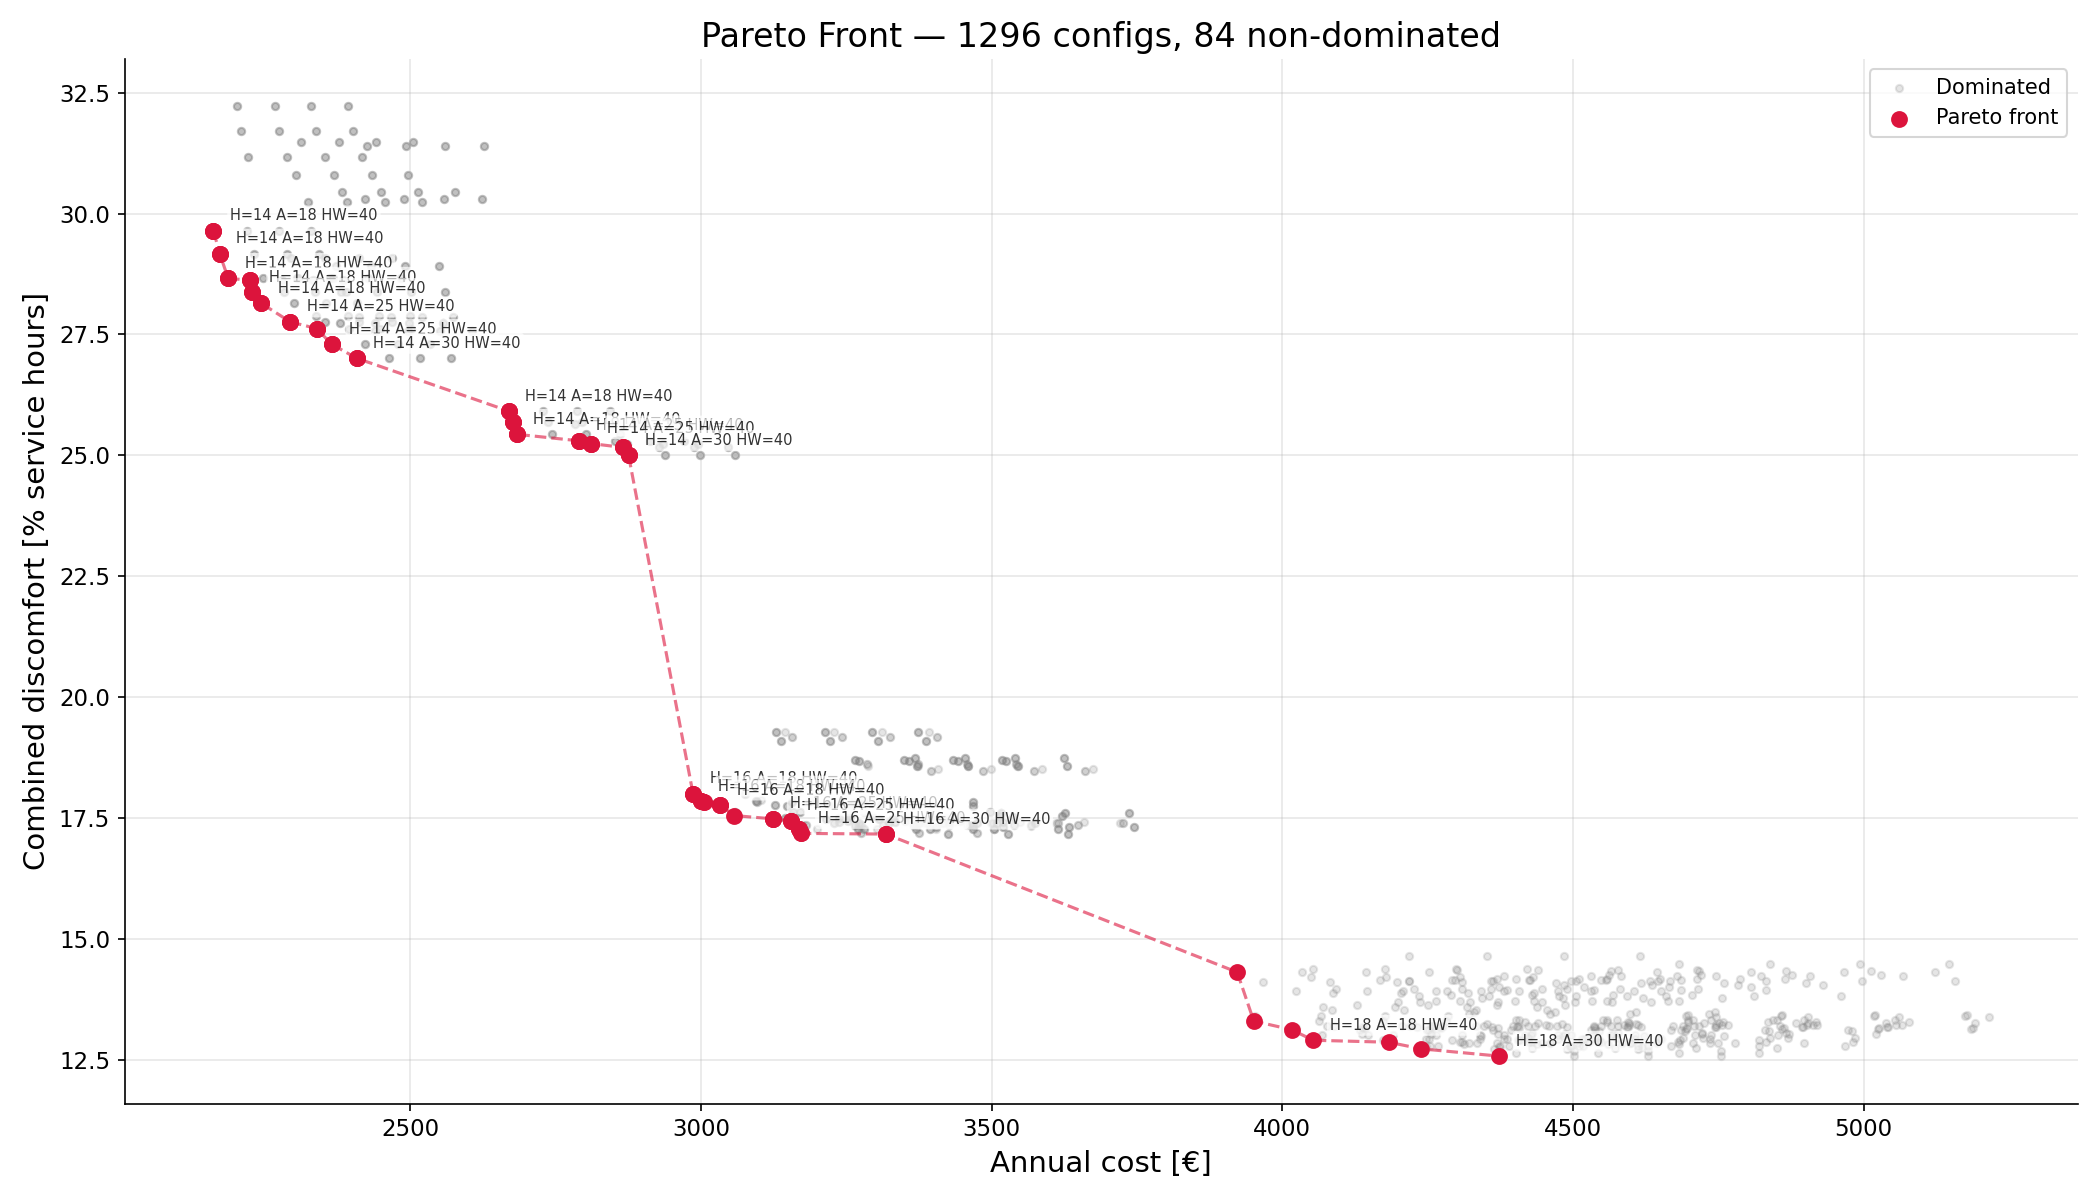
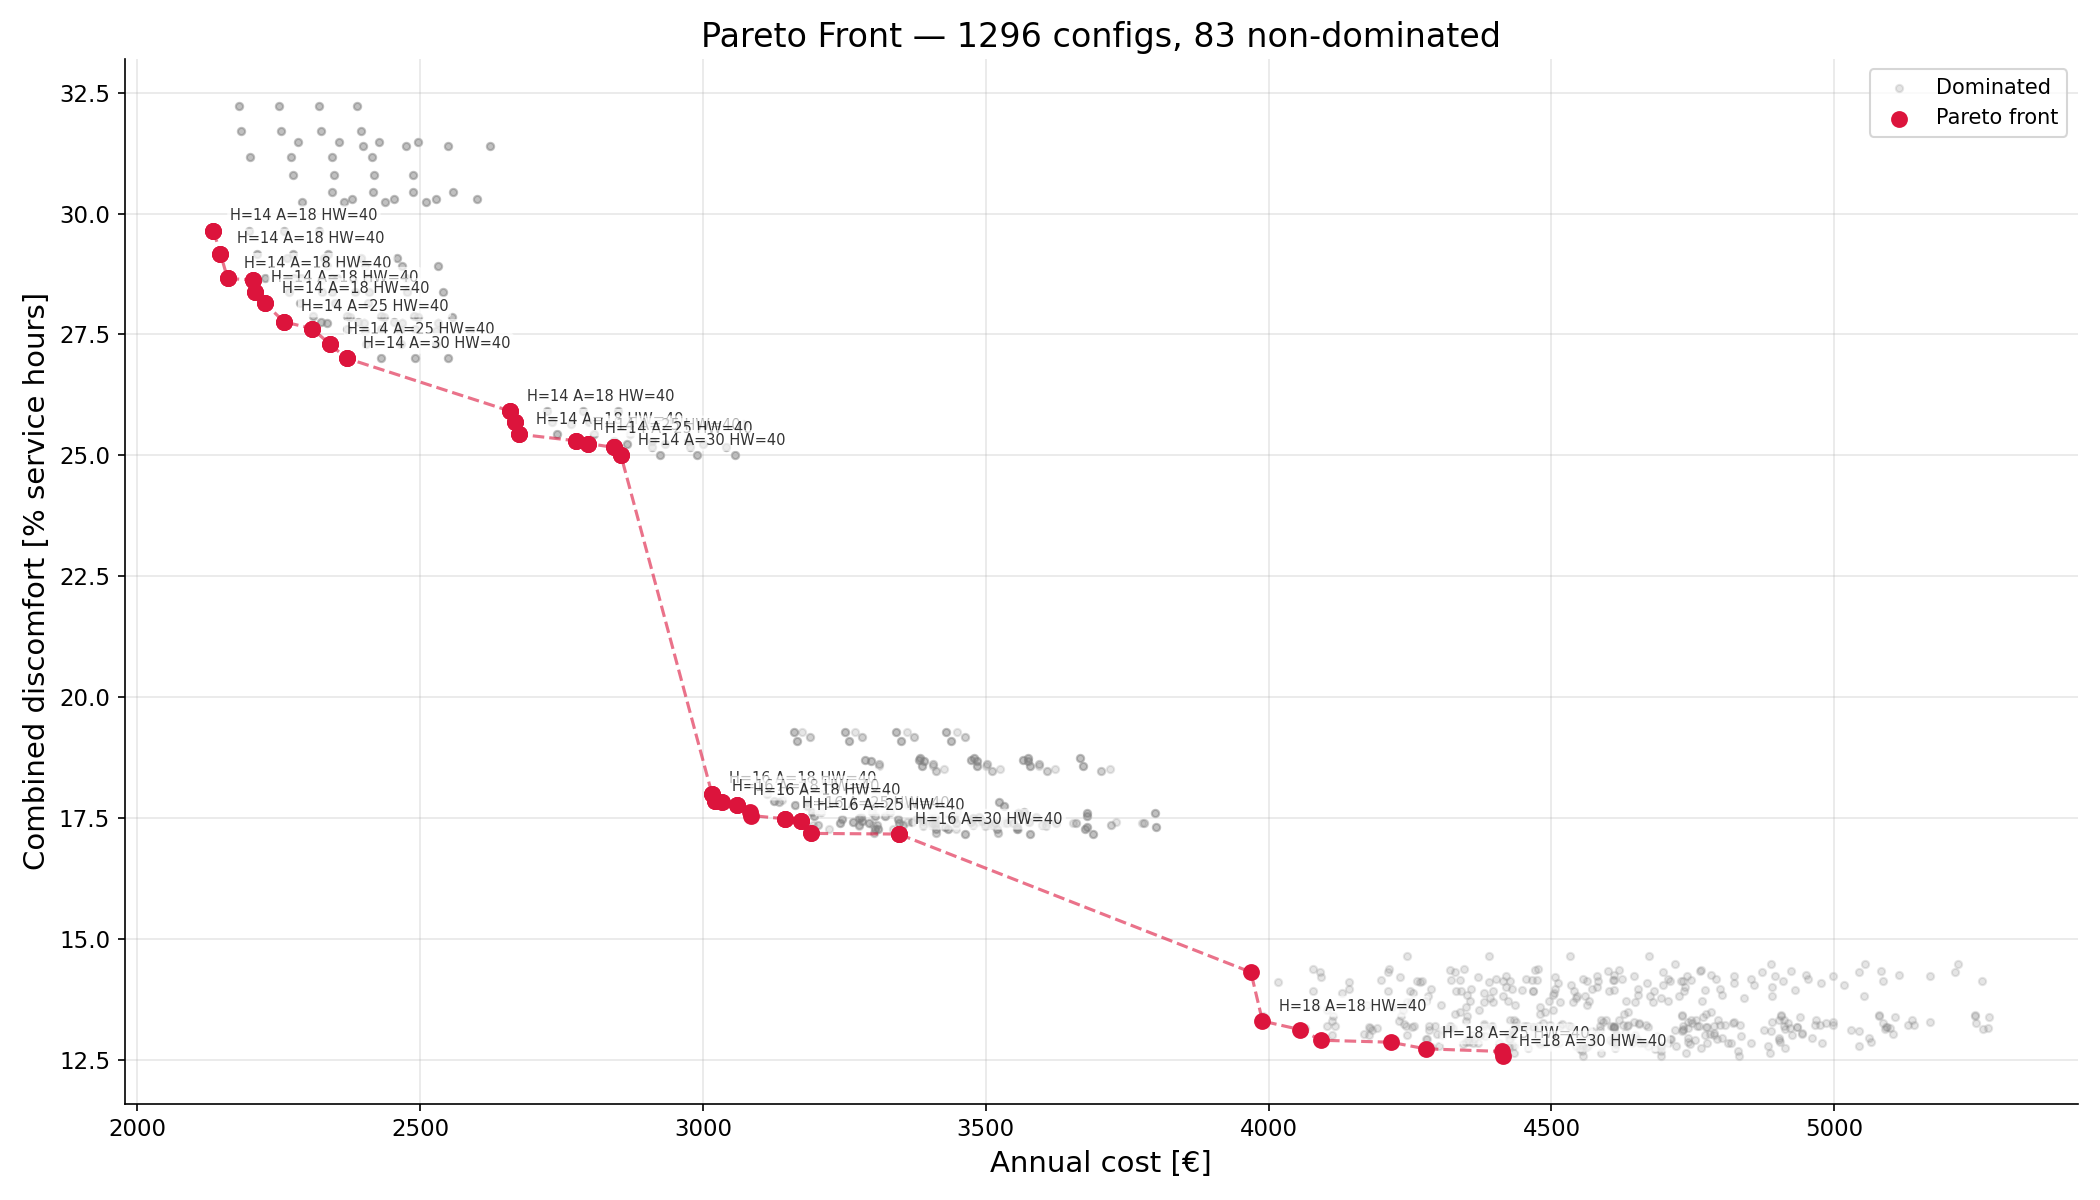
Add Streamlit app: live sim, Sobol, Pareto explorer

diff --git a/app.py b/app.py
@@ -1,0 +1,293 @@
+import streamlit as st
+import pandas as pd
+import plotly.express as px
+import plotly.graph_objects as go
+
+
+# =============================================================================
+# APP CONFIG — shared across all pages
+# =============================================================================
+
+st.set_page_config(page_title="Metro HVAC Optimizer", layout="wide")
+st.title("Metro HVAC Optimizer")
+
+page = st.sidebar.radio(
+    "Page",
+    ["Live Simulation", "Sobol Sensitivity", "Pareto Explorer"],
+)
+
+
+# =============================================================================
+# PAGE 1 — LIVE SIMULATION
+# Runs a full-year simulation with user-chosen parameters.
+# =============================================================================
+
+if page == "Live Simulation":
+
+    st.caption("Runs a full-year simulation with your chosen parameters.")
+
+    import constants
+    import regulation
+    import emissions as em_mod
+    import humidity as hum_mod
+    from simulation import run_simulation
+
+    # --- Monkey-patch helpers (same pattern as pareto.py) ---
+    def _patch(name, value):
+        setattr(constants, name, value)
+        for mod in (regulation, em_mod, hum_mod):
+            if hasattr(mod, name):
+                setattr(mod, name, value)
+
+    def _patch_derived():
+        ov = constants.AIRFLOW_OVERPRESSURE_M3H
+        pp = constants.AIRFLOW_PER_PERSON_M3H
+        pk = constants.PEOPLE_PEAK
+        _patch("AIRFLOW_MIN_M3H", ov)
+        _patch("AIRFLOW_MAX_M3H", (ov + pk * pp) * 1.10)
+        _patch("P_FAN_RATED_W",
+               constants.AIRFLOW_MAX_M3H / 3600.0 * constants.DP_AHU_PA / constants.ETA_FAN)
+        _patch("T_HEAT_HIGH_C", constants.T_HEAT_LOW_C + 2.0)
+
+    # --- Sidebar sliders ---
+    st.sidebar.header("Parameters")
+    h    = st.sidebar.select_slider("Heating setpoint (°C)",     options=[14.0, 16.0, 18.0],       value=16.0)
+    a    = st.sidebar.select_slider("Airflow per person (m³/h)", options=[18.0, 25.0, 30.0],       value=18.0)
+    hw   = st.sidebar.select_slider("Hot water max (°C)",        options=[40.0, 45.0, 50.0, 55.0], value=40.0)
+    s    = st.sidebar.select_slider("Stair cold threshold (°C)", options=[3.0, 5.0, 7.0, 10.0],    value=7.0)
+    blow = st.sidebar.select_slider("Blow heat (°C)",            options=[28.0, 30.0, 32.0],       value=28.0)
+
+    # --- Run on button press ---
+    if st.button("Run simulation"):
+        _patch("T_HEAT_LOW_C",           h)
+        _patch("AIRFLOW_PER_PERSON_M3H", a)
+        _patch("T_HW_SUPPLY_MAX",        hw)
+        _patch("T_STAIR_COLD_C",         s)
+        _patch("T_BLOW_HEAT_C",          blow)
+        _patch_derived()
+
+        with st.spinner("Running full-year simulation..."):
+            r = run_simulation()
+
+        em = r["em"]
+        c  = r["comfort"]
+
+        # --- Metric cards ---
+        col1, col2, col3, col4 = st.columns(4)
+        col1.metric("Annual Cost", f"{em['cost_annual_eur']:.0f} €")
+        col2.metric("Energy",      f"{em['E_annual_kWh']:.0f} kWh")
+        col3.metric("CO₂",         f"{em['CO2_annual_kgCO2']:.0f} kg")
+        col4.metric("Discomfort",  f"{c['combined_discomfort_pct']:.1f} %")
+
+        # --- Energy breakdown bar ---
+        fig = go.Figure([go.Bar(
+            x=["Heating", "Cooling", "Fans", "Curtain"],
+            y=[em["E_heat_total_kWh"], em["E_cool_total_kWh"],
+               em["E_fan_total_kWh"],  em["E_curtain_total_kWh"]],
+            marker_color=["tomato", "steelblue", "mediumseagreen", "orange"],
+        )])
+        fig.update_layout(yaxis_title="Energy (kWh)", showlegend=False)
+        st.plotly_chart(fig, width="stretch")
+
+
+# =============================================================================
+# PAGE 2 — SOBOL SENSITIVITY
+# Variance-based ranking of 15 parameters across 3 metrics.
+# =============================================================================
+
+elif page == "Sobol Sensitivity":
+
+    st.subheader("Sobol Sensitivity Analysis")
+
+    @st.cache_data
+    def load_sobol():
+        import numpy as np
+        from SALib.analyze import sobol
+
+        data = np.load("data/processed/sobol_results.npz", allow_pickle=True)
+
+        PROBLEM = {
+            "num_vars": 15,
+            "names": [
+                "T_HEAT_LOW_C", "T_COOL_FIXED_C", "T_HW_SUPPLY_MAX",
+                "AIRFLOW_PER_PERSON_M3H", "T_DEAD_LOW_C", "T_DEAD_HIGH_C",
+                "T_BLOW_HEAT_C", "T_BLOW_COOL_C", "FRAC_RETURN_AIR",
+                "T_NIGHT_SETBACK_C", "T_STAIR_COLD_C", "T_HW_EXT_HIGH_C",
+                "T_HW_EXT_HYST_C", "T_CW_EXT_LOW_C", "T_CW_EXT_HYST_C",
+            ],
+            "bounds": [
+                [16, 22], [24, 28], [40, 55], [15, 35], [12, 18], [20, 25],
+                [28, 35], [13, 17], [0.50, 0.85], [3, 8], [3, 10], [13, 18],
+                [10, 15], [24, 28], [25, 29],
+            ],
+        }
+
+        Si_cost    = sobol.analyze(PROBLEM, data["Y_cost"],    calc_second_order=True)
+        Si_comfort = sobol.analyze(PROBLEM, data["Y_comfort"], calc_second_order=True)
+        Si_co2     = sobol.analyze(PROBLEM, data["Y_co2"],     calc_second_order=True)
+
+        return PROBLEM["names"], Si_cost, Si_comfort, Si_co2
+
+    names, Si_cost, Si_comfort, Si_co2 = load_sobol()
+
+    metric = st.selectbox(
+        "Metric",
+        ["Annual Cost (€)", "Combined Discomfort (%)", "CO₂ (kg)"],
+    )
+
+    Si = {
+        "Annual Cost (€)":         Si_cost,
+        "Combined Discomfort (%)": Si_comfort,
+        "CO₂ (kg)":                Si_co2,
+    }[metric]
+
+    fig = go.Figure([
+        go.Bar(name="S1 (direct effect)", x=names, y=Si["S1"], marker_color="steelblue"),
+        go.Bar(name="ST (total effect)",  x=names, y=Si["ST"], marker_color="tomato"),
+    ])
+    fig.update_layout(
+        barmode="group",
+        yaxis_title="Sobol Index",
+        xaxis_tickangle=-45,
+        yaxis=dict(range=[0, 1]),
+    )
+    st.plotly_chart(fig, width="stretch")
+
+
+# =============================================================================
+# PAGE 3 — PARETO EXPLORER
+# Browse precomputed grid: compare a selected config against the optimal one.
+# =============================================================================
+
+elif page == "Pareto Explorer":
+
+    st.subheader("Pareto Explorer")
+
+    # --- Load precomputed grid (cached) ---
+    @st.cache_data
+    def load_pareto():
+        return pd.read_csv("data/processed/pareto_all_configs.csv")
+
+    df = load_pareto()
+
+    # --- Optimal config (fixed reference) ---
+    OPTIMAL = {
+        "T_HEAT_LOW_C":           16,
+        "AIRFLOW_PER_PERSON_M3H": 18,
+        "T_HW_SUPPLY_MAX":        40,
+        "T_STAIR_COLD_C":         7,
+        "T_BLOW_HEAT_C":          28,
+    }
+
+    optimal_row = df[
+        (df["T_HEAT_LOW_C"]           == OPTIMAL["T_HEAT_LOW_C"]) &
+        (df["AIRFLOW_PER_PERSON_M3H"] == OPTIMAL["AIRFLOW_PER_PERSON_M3H"]) &
+        (df["T_HW_SUPPLY_MAX"]        == OPTIMAL["T_HW_SUPPLY_MAX"]) &
+        (df["T_STAIR_COLD_C"]         == OPTIMAL["T_STAIR_COLD_C"]) &
+        (df["T_BLOW_HEAT_C"]          == OPTIMAL["T_BLOW_HEAT_C"])
+    ]
+
+    # --- Sidebar sliders (snap to grid values via select_slider) ---
+    st.sidebar.header("Configuration")
+    h = st.sidebar.select_slider(
+        "Heating setpoint (°C)",
+        options=sorted(df["T_HEAT_LOW_C"].unique()),
+        value=OPTIMAL["T_HEAT_LOW_C"],
+    )
+    a = st.sidebar.select_slider(
+        "Airflow per person (m³/h)",
+        options=sorted(df["AIRFLOW_PER_PERSON_M3H"].unique()),
+        value=OPTIMAL["AIRFLOW_PER_PERSON_M3H"],
+    )
+    hw = st.sidebar.select_slider(
+        "Hot water supply max (°C)",
+        options=sorted(df["T_HW_SUPPLY_MAX"].unique()),
+        value=OPTIMAL["T_HW_SUPPLY_MAX"],
+    )
+    s = st.sidebar.select_slider(
+        "Staircase cold threshold (°C)",
+        options=sorted(df["T_STAIR_COLD_C"].unique()),
+        value=OPTIMAL["T_STAIR_COLD_C"],
+    )
+    blow = st.sidebar.select_slider(
+        "Blow heat setpoint (°C)",
+        options=sorted(df["T_BLOW_HEAT_C"].unique()),
+        value=OPTIMAL["T_BLOW_HEAT_C"],
+    )
+
+    # --- Look up the row matching the slider values ---
+    filtered = df[
+        (df["T_HEAT_LOW_C"]           == h) &
+        (df["AIRFLOW_PER_PERSON_M3H"] == a) &
+        (df["T_HW_SUPPLY_MAX"]        == hw) &
+        (df["T_STAIR_COLD_C"]         == s) &
+        (df["T_BLOW_HEAT_C"]          == blow)
+    ]
+
+    # --- Display ---
+    if filtered.empty:
+        st.warning("No matching configuration found.")
+    else:
+        sel = filtered.iloc[0]      # selected config
+        opt = optimal_row.iloc[0]   # optimal config
+
+        # --- Top row: Pareto scatter + CO₂ comparison ---
+        col1, col2 = st.columns(2)
+
+        with col1:
+            st.subheader("Pareto Front")
+
+            # Full cloud of all configs in grey
+            fig = px.scatter(
+                df,
+                x="cost_eur",
+                y="combined_discomfort_pct",
+                color_discrete_sequence=["lightgrey"],
+                labels={
+                    "cost_eur": "Annual Cost (€)",
+                    "combined_discomfort_pct": "Discomfort (%)",
+                },
+            )
+            fig.update_traces(marker=dict(size=4), showlegend=False)
+
+            # Optimal — green star
+            fig.add_trace(go.Scatter(
+                x=[opt["cost_eur"]],
+                y=[opt["combined_discomfort_pct"]],
+                mode="markers",
+                marker=dict(color="green", size=12, symbol="star"),
+                name="Optimal",
+            ))
+
+            # Selected — red dot
+            fig.add_trace(go.Scatter(
+                x=[sel["cost_eur"]],
+                y=[sel["combined_discomfort_pct"]],
+                mode="markers",
+                marker=dict(color="red", size=12, symbol="circle"),
+                name="Selected",
+            ))
+
+            st.plotly_chart(fig, width="stretch")
+
+        with col2:
+            st.subheader("CO₂ Emissions")
+            fig2 = go.Figure([
+                go.Bar(name="Optimal",  x=["CO₂ (kg)"], y=[opt["CO2_kg"]], marker_color="green"),
+                go.Bar(name="Selected", x=["CO₂ (kg)"], y=[sel["CO2_kg"]], marker_color="red"),
+            ])
+            fig2.update_layout(barmode="group")
+            st.plotly_chart(fig2, width="stretch")
+
+        # --- Bottom: energy breakdown (optimal vs selected) ---
+        st.subheader("Energy Breakdown")
+        categories = ["Heating", "Cooling", "Fans", "Curtain"]
+        opt_vals = [opt["E_heat_kWh"], opt["E_cool_kWh"], opt["E_fan_kWh"], opt["E_curtain_kWh"]]
+        sel_vals = [sel["E_heat_kWh"], sel["E_cool_kWh"], sel["E_fan_kWh"], sel["E_curtain_kWh"]]
+
+        fig3 = go.Figure([
+            go.Bar(name="Optimal",  x=categories, y=opt_vals, marker_color="green"),
+            go.Bar(name="Selected", x=categories, y=sel_vals, marker_color="red"),
+        ])
+        fig3.update_layout(barmode="group", yaxis_title="Energy (kWh)")
+        st.plotly_chart(fig3, width="stretch")

diff --git a/pareto.py b/pareto.py
@@ -8,6 +8,7 @@
 import time
 import itertools
 import numpy as np
+import pandas as pd
 import matplotlib
 matplotlib.use("Agg")
 import matplotlib.pyplot as plt
@@ -237,6 +238,11 @@ if __name__ == "__main__":
             results.append(result)
 
     _restore_all()
+    
+    # --- Save all results ---
+    df_results = pd.DataFrame(results)
+    df_results.to_csv("data/processed/pareto_all_configs.csv", index=False)
+    print(f"Saved: data/processed/pareto_all_configs.csv ({len(df_results)} rows)")
 
     elapsed = time.perf_counter() - t0
     print(f"\nCompleted {len(results)}/{N_CONFIGS} in {elapsed/60:.1f} min "